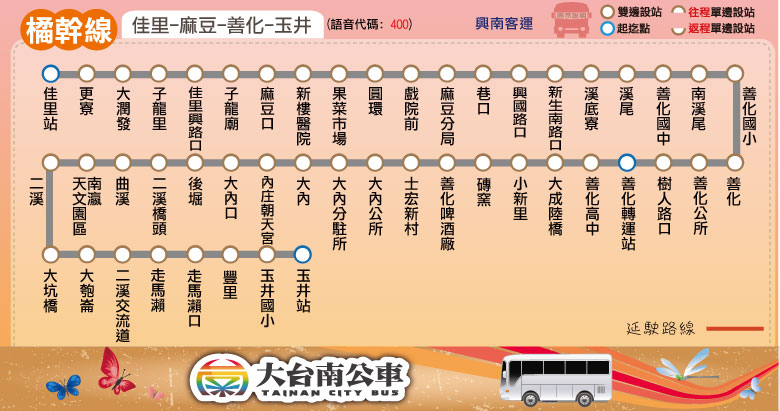
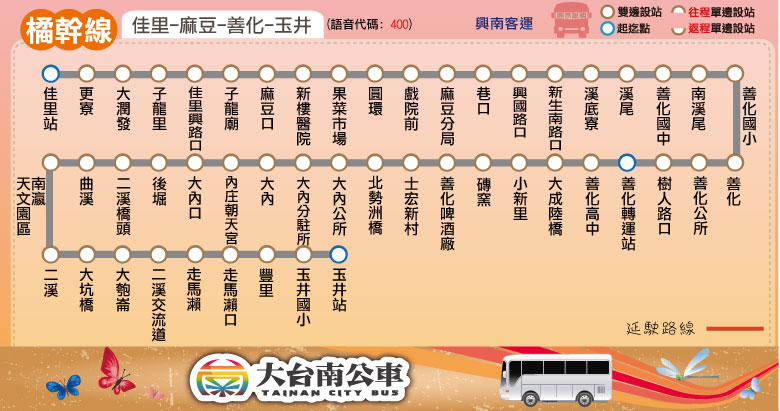
Add new stop in orange; Change email address; Add news: 6; Remove news: 5,y9,o

Changed region(s): [[0.0308, 0.4088, 0.4923, 0.8467], [0.0, 0.4088, 0.0615, 0.5839]]

diff --git a/route/fare_and_time/orange.js b/route/fare_and_time/orange.js
@@ -1,4 +1,4 @@
-orange_interval_name = ["佳里","子龍廟","麻豆","溪尾","善化","善化<br />轉運站","小新里","大內","二溪","走馬瀨","玉井"];
+orange_interval_name = ["佳里","子龍廟","麻豆","溪尾","善化","善化<br />轉運站","小新營","大內","二溪","走馬瀨","玉井"];
 orange_interval_stop = [
 ["佳里站","更寮","大潤發"], // 佳里
 ["子龍里","佳里興路口","子龍廟"], // 子龍廟
@@ -6,13 +6,13 @@ orange_interval_stop = [
 ["溪底寮","溪尾","善化國中","南溪尾"], // 溪尾
 ["善化國小","善化","善化公所","樹人路口"], // 善化
 ["善化轉運站","善化高中","大成陸橋"], // 善化轉運站
-["小新里","磚窯","善化啤酒廠","士宏新村"], // 小新里
+["小新里","磚窯","善化啤酒廠","士宏新村","北勢洲橋"], // 小新營
 ["大內公所","大內分駐所","大內","內庄朝天宮","大內口","後堀"], // 大內
 ["二溪橋頭","曲溪","南瀛天文園區","二溪","大坑橋","大匏崙","二溪交流道"], // 二溪
 ["走馬瀨","走馬瀨口","豐里"], // 走馬瀨
 ["玉井國小","玉井站"] // 玉井
 ];
-orange_stop_time_consume = [0,1,3,5,6,8,10,12,15,17,18,20,21,22,22,23,25,26,27,28,30,33,34,35,40,41,42,42,43,45,51,53,55,55,56,57,
+orange_stop_time_consume = [0,1,3,5,6,8,10,12,15,17,18,20,21,22,22,23,25,26,27,28,30,33,34,35,40,41,42,42,43,45,51,52,53,55,55,56,57,
 58,59,60,62,63,64,65,73,75,76,78,80];
 orange_fare = [
 [26],

diff --git a/city_bus/city_bus_6.html b/city_bus/city_bus_6.html
@@ -17,7 +17,7 @@
 <body>
 <script type="text/javascript">
 	block_header();
-	block_route_map('https://mapsengine.google.com/map/edit?mid=zT0XIOZRtlhg.kG1w-11DAy60');
+	block_route_map('https://mapsengine.google.com/map/edit?mid=zT0XIOZRtlhg.kG1w-11DAy60','配合103年12月22日(星期一)至27日(星期六)府前路路平專案交通管制，施工期間本路線「6路」取消站位如下：「公十一停車場」、「建興國中(府前路)」、「延平郡王祠」、「開山路」。欲乘車的民眾請前往前後鄰近站位搭乘，造成不便敬請見諒。');
 	block_route_info(route_interval,'府城客運','尖10~20離30','一段票','http://2384.tainan.gov.tw:8080/AGPSRemoteQuery3/ajaxBus.jsp?pathId=10165&locale=zh_TW');
 	block_fare(1, null);
 	block_time_schedule('裕聖里','新興國宅/下鯤鯓',W_message + '；' + H_message + '</h3><br />\

diff --git a/city_bus/city_bus_5.html b/city_bus/city_bus_5.html
@@ -17,7 +17,7 @@
 <body>
 <script type="text/javascript">
 	block_header();
-	block_route_map('https://mapsengine.google.com/map/edit?mid=zT0XIOZRtlhg.kC3M0a-uikZY','配合工務局103年12月14日(星期日)至19日(星期五)「崇明路路面改善工程」交通管制，本市公車5路於崇明路沿線站位「崇明國中」、「市立醫院」(崇明路上)、「崇明路」等3站位於施工期間暫不停靠，造成不便敬請見諒。<img src="http://2384.tainan.gov.tw/TNWeb/images/news/20141212164602123.JPG" width="400">');
+	block_route_map('https://mapsengine.google.com/map/edit?mid=zT0XIOZRtlhg.kC3M0a-uikZY');
 	block_route_info(route_interval,'府城客運','尖10~20離30','一段票','http://2384.tainan.gov.tw:8080/AGPSRemoteQuery3/ajaxBus.jsp?pathId=10164&locale=zh_TW');
 	block_fare(1, null);
 	document.write('<div id="timetable">\

diff --git a/tools/msg.js b/tools/msg.js
@@ -5,7 +5,7 @@ TimeScheduleMSG = '<p><h2>除了起站為發車時間，其餘站點皆為預估
 W_message = '<font color="#0000FF">W</font>表示僅平日行駛';
 L_message = '<font color="#FF0000">L</font>表示低地板公車';
 H_message = '<font color="red">H</font>表示僅假日行駛'
-copyrightMSG = '<p>Copyright (c) 2014 Tainan Bus for FUN. All rights reserved. | Contact with <a href="mailto:s88239@hotmail.com" rel="nofollow">administrator</a>.</p>';
+copyrightMSG = '<p>Copyright (c) 2014 Tainan Bus for FUN. All rights reserved. | Contact with <a href="mailto:tainanbusforfun@outlook.com" rel="nofollow">administrator</a>.</p>';
 
 function Announcement(str){
 	document.write('<table cellSpacing=0 borderColorDark=#ffffff width=350 borderColorLight=purple border=1>\

diff --git a/yellow/yellow_9.html b/yellow/yellow_9.html
@@ -17,7 +17,7 @@
 <body>
 <script type="text/javascript">
 	block_header();
-	block_route_map(null,'本路線「【黃9】新營－高鐵嘉義站」路線，自103年12月16日起於「東興國宅」站與「新營客運管理中心」站之間增設『東興、長榮路口』站點，請乘客多加利用。');
+	block_route_map(null);
 	block_route_info(route_interval,'新營客運','','里程計費','http://2384.tainan.gov.tw:8080/AGPSRemoteQuery3/ajaxBus.jsp?pathId=1509&locale=zh_TW');
 	block_fare(0, null);
 	block_time_schedule('新營','高鐵嘉義站',W_message + '；<font color="red">「五」</font>表示每週五行駛，逢連續假期則於休假前一天行駛');

diff --git a/orange/orange.html b/orange/orange.html
@@ -17,7 +17,7 @@
 <body>
 <script type="text/javascript">
 	block_header();
-	block_route_map('https://mapsengine.google.com/map/edit?mid=zT0XIOZRtlhg.kR8K7xUyvQtw','自103年12月22日起本公司營運路線橘幹線於「士宏新村」及「大內公所」站中間增設「北勢洲橋」招呼站，票價以「小新營」計收。');
+	block_route_map('https://mapsengine.google.com/map/edit?mid=zT0XIOZRtlhg.kR8K7xUyvQtw');
 	block_route_info(route_interval,'興南客運','尖30離60','里程計費','http://2384.tainan.gov.tw:8080/AGPSRemoteQuery3/ajaxBus.jsp?pathId=1400&locale=zh_TW');
 	block_fare(0, null);
 	block_time_schedule('佳里','玉井','');
